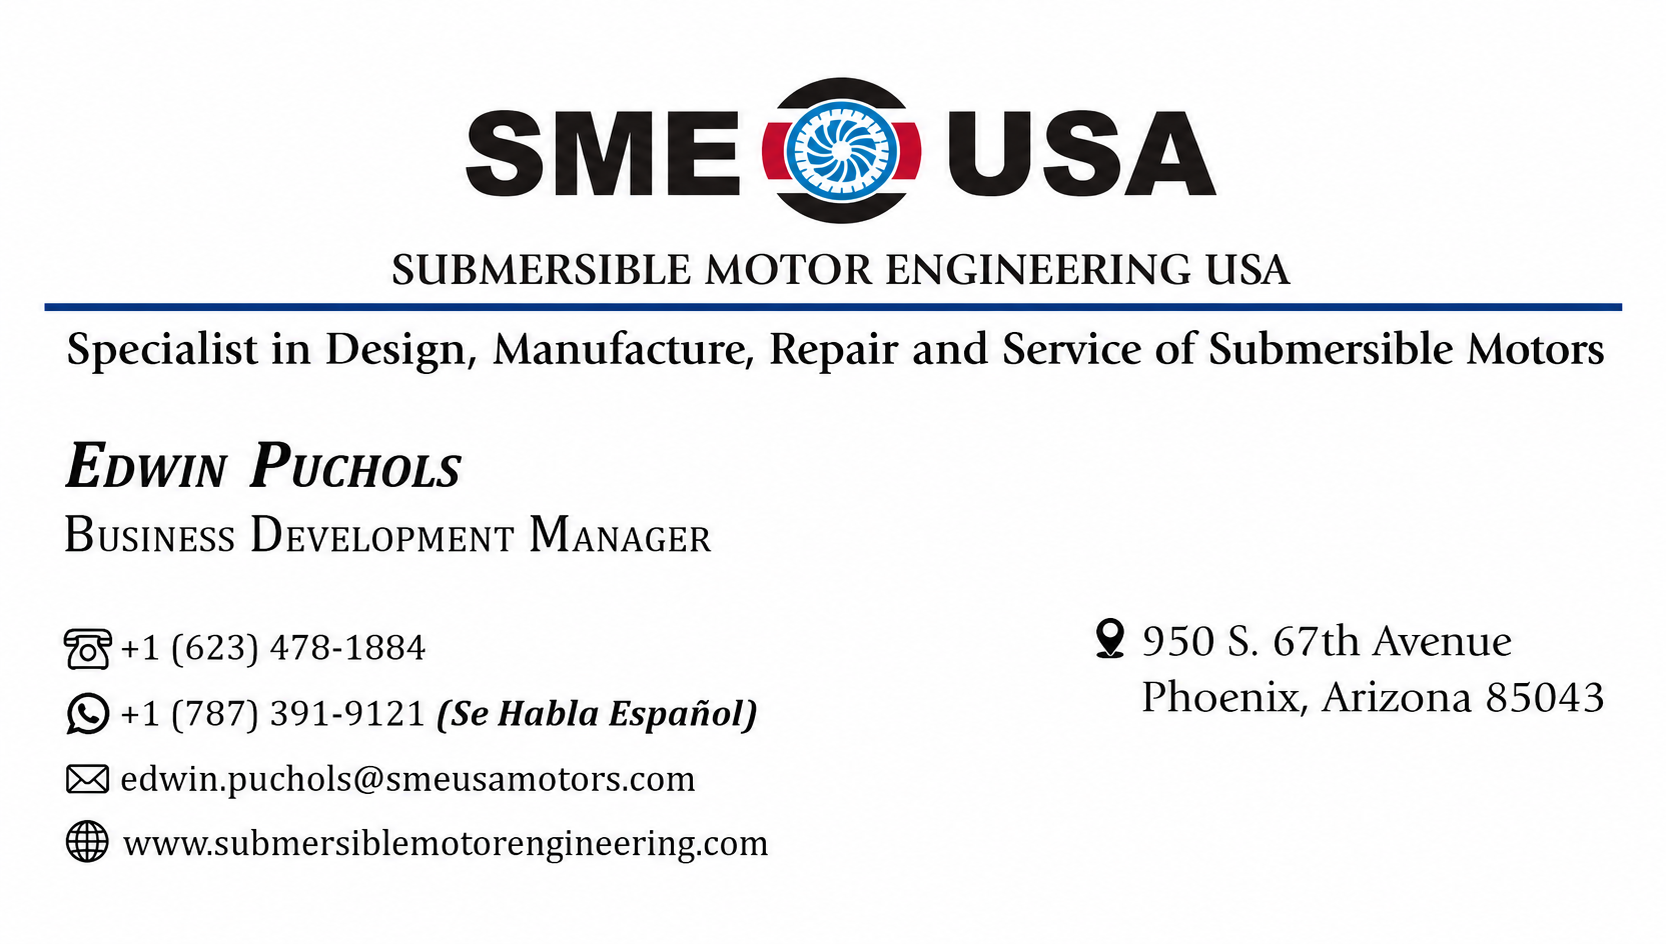
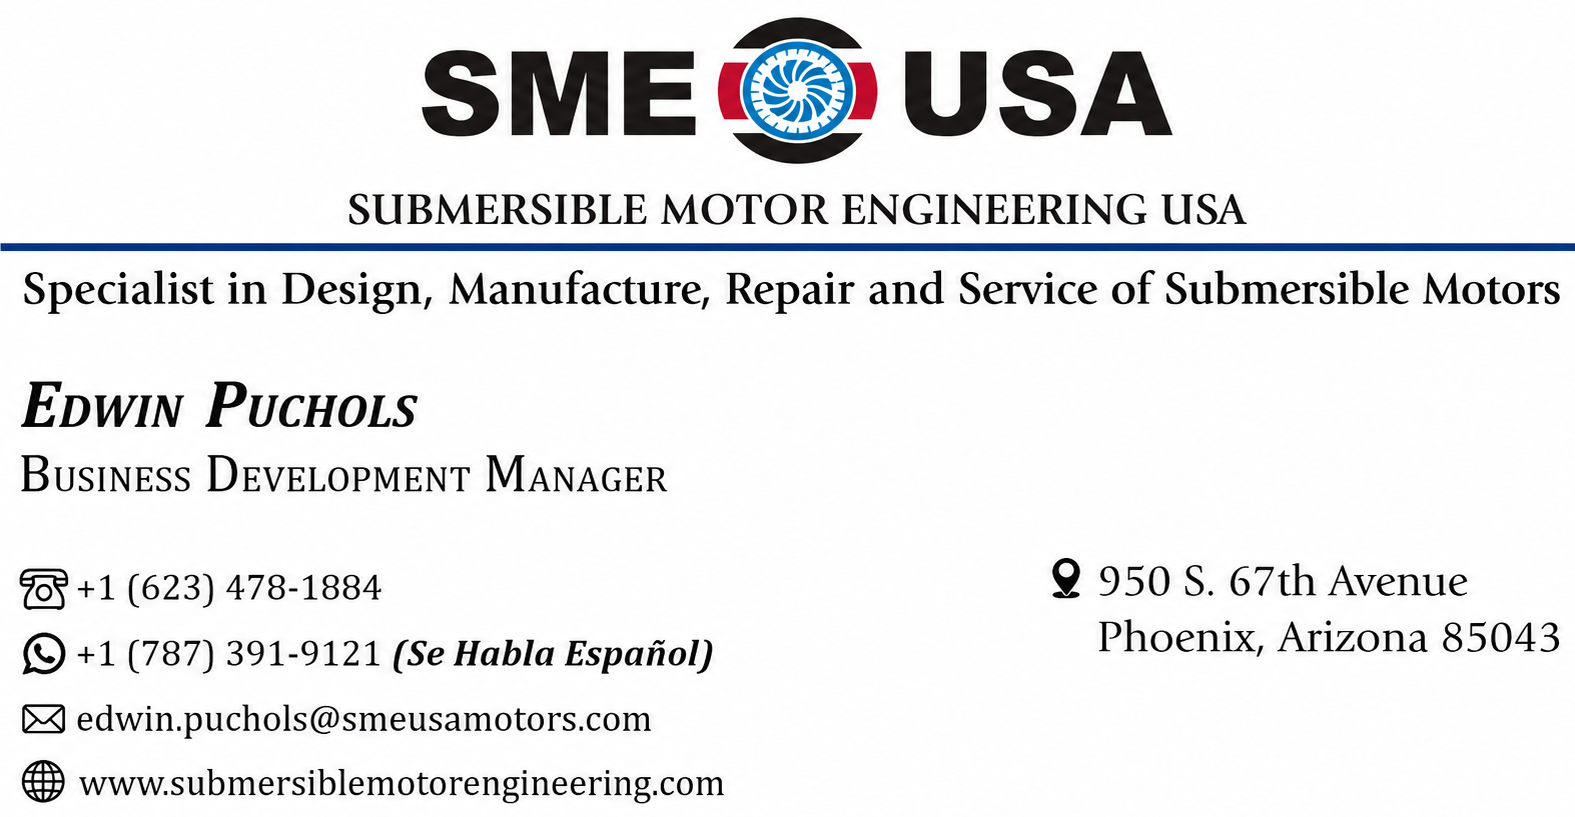
Revert left card zoom and update cropped SME.png

diff --git a/css/styles.css b/css/styles.css
@@ -1067,9 +1067,7 @@ h4 {
     border-color: var(--primary);
 }
 
-.alliance-card:first-child:hover {
-    transform: scale(2.0);
-}
+
 
 .contact {
     background: var(--gray-100);
